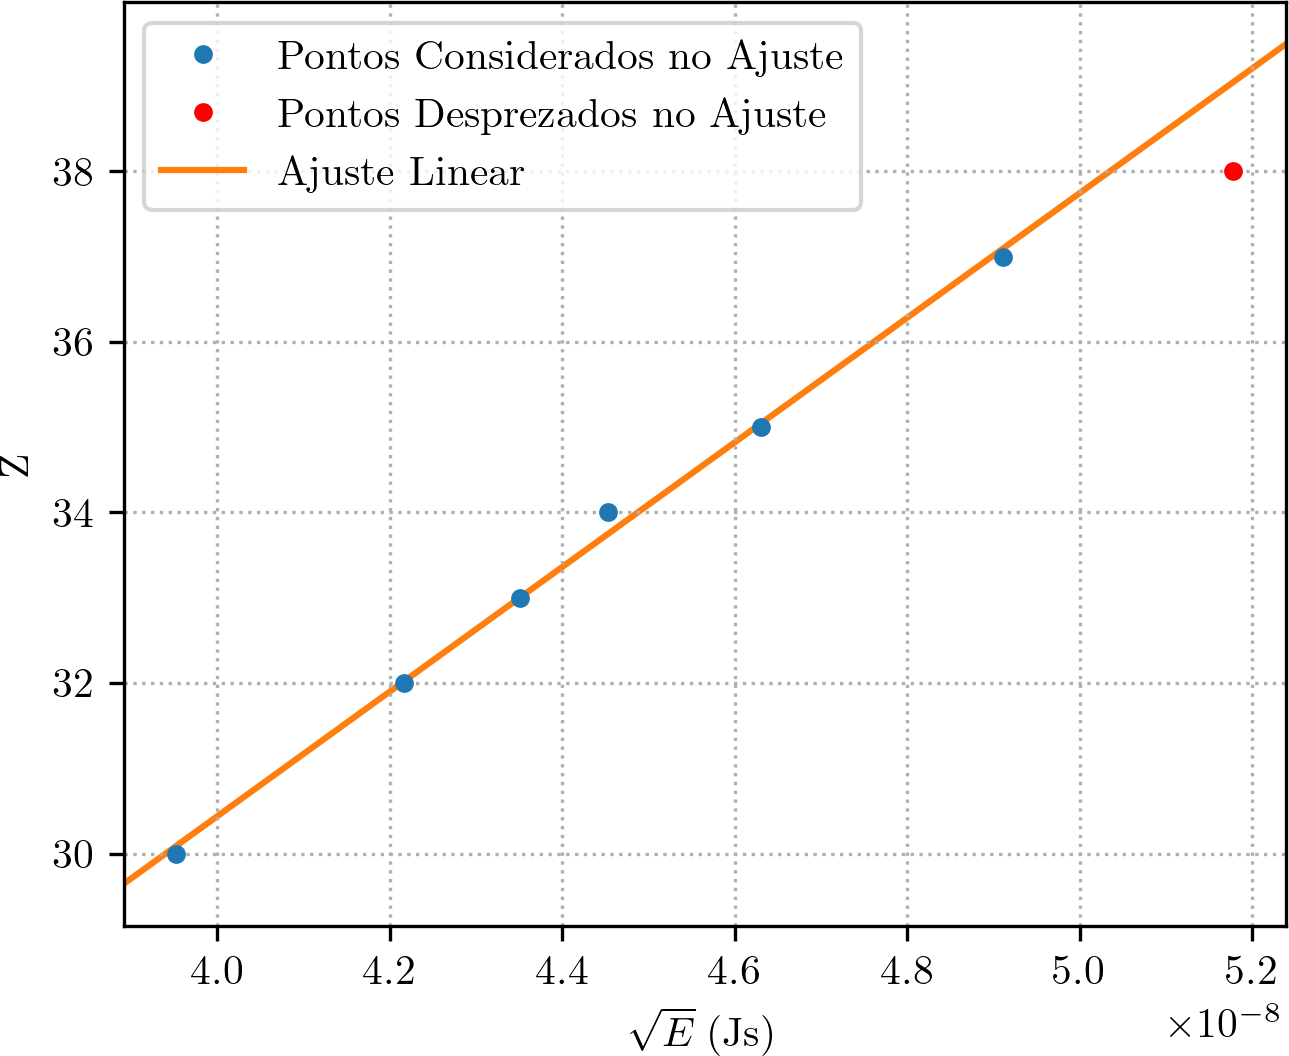
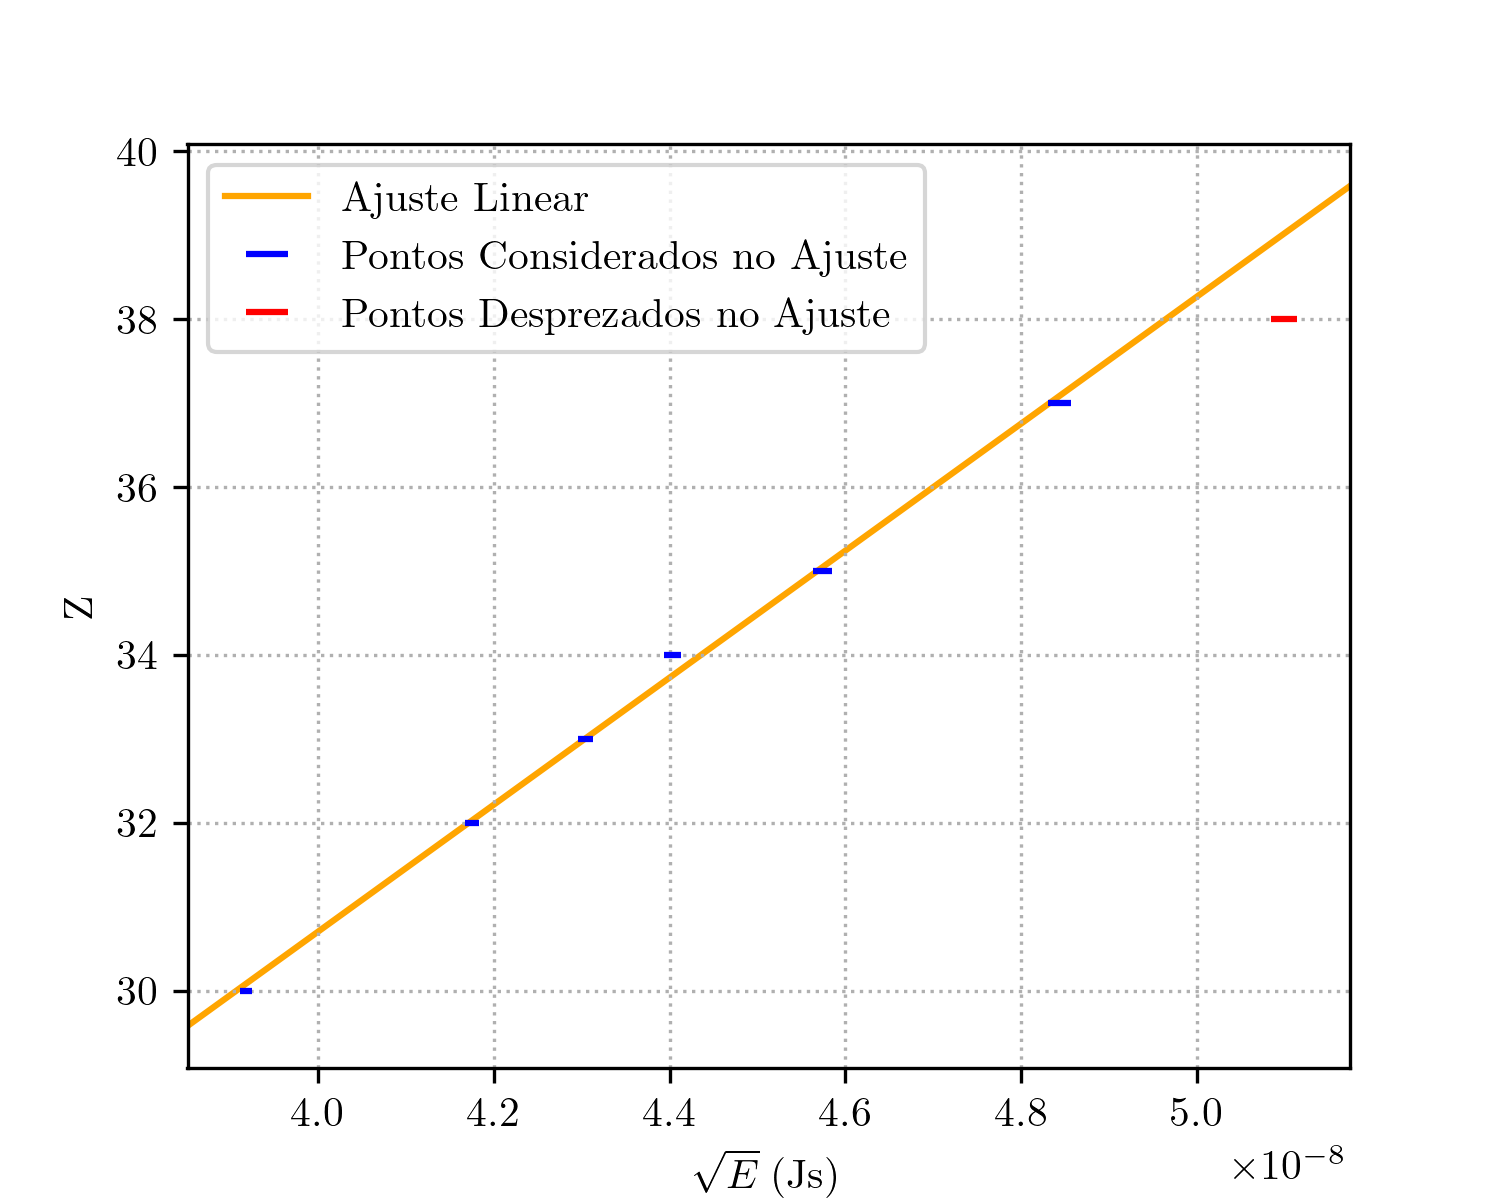
Adding correction to the angles and stderr of physical quantities

diff --git a/moseley.py b/moseley.py
@@ -57,13 +57,13 @@ for ax in axes[:, 0].flat:
 
 # Range of angles inside which is expected an absorption edge
 abs_range = {
-    "Zn": (17.5, 18.5),
-    "Ge": (15.5, 16.5),
-    "As": (14.5, 15.5),
-    "Se": (14.0, 15.0),
-    "Br": (13.0, 14.0),
-    "Rb": (11.5, 12.5),
-    "Sr": (10.0, 11.0),
+    "Zn": (17.8, 18.8),
+    "Ge": (15.8, 16.8),
+    "As": (14.8, 15.8),
+    "Se": (14.3, 15.3),
+    "Br": (13.3, 14.3),
+    "Rb": (11.8, 12.8),
+    "Sr": (10.3, 11.3),
 }
 
 
@@ -87,10 +87,15 @@ def color_gen(lenght):
 color = color_gen(len(elements))
 ylim = ymin, ymax = (-100, 3500)
 
+# Adding correction to the angles based on the result of angular.py
+correction_df = pd.read_csv("results/angular_result.csv", decimal=",")
+correction = correction_df.loc[1, "center"]
+angle_stderr = correction_df.loc[1, "center_stderr"]
+
 k_abs_edges = []
 
 for ax, df, element in zip(axes.flat, dfs, elements):
-    x_data = df.loc[:, "Angle"].to_numpy() / 2
+    x_data = df.loc[:, "Angle"].to_numpy() / 2 + correction
     y_data = df.loc[:, "Impulses"].to_numpy()
 
     x_data_filtered = gaussian_filter1d(x_data, sigma=1.0)
@@ -120,18 +125,32 @@ for ax, df, element in zip(axes.flat, dfs, elements):
         ymax,
         color="red",
         linewidth=0.5,
-        label=rf"$\theta = {k_abs_edge}\si{{\degree}}$",
+        label=rf"$\theta = {k_abs_edge:.1f}\si{{\degree}}$",
     )
 
     ax.set(ylim=ylim)
     ax.legend(loc="upper left")
 
 # Second plot: Moseley diagram (atomic number in terms of sqrt of energy)
-one_over_sin = 1 / np.sin(np.radians(np.array(k_abs_edges)))
+
+# Computing physical variables of interest
+k_abs_edges_stderr = np.full(len(k_abs_edges), angle_stderr)
+k_abs_edges_rad = np.radians(k_abs_edges)
+k_abs_edges_rad_stderr = np.radians(angle_stderr)
+one_over_sin = 1 / np.sin(k_abs_edges_rad)
+one_over_sin_stderr = (
+    np.radians(angle_stderr) * np.cos(k_abs_edges_rad) / np.sin(k_abs_edges_rad) ** 2
+)
+
 energies_js = 0.5 * PLANCK_JS * LIGHT_SPEED * one_over_sin / CRYSTAL
+energies_js_stderr = 0.5 * PLANCK_JS * LIGHT_SPEED * one_over_sin_stderr / CRYSTAL
 energies_kev = 5e-4 * PLANCK_EV * LIGHT_SPEED * one_over_sin / CRYSTAL
+energies_kev_stderr = 5e-4 * PLANCK_EV * LIGHT_SPEED * one_over_sin_stderr / CRYSTAL
 sqrt_energies_js = np.sqrt(energies_js)
+sqrt_energies_js_stderr = 0.5 * energies_js_stderr / np.sqrt(energies_js)
 sqrt_energies_kev = np.sqrt(energies_kev)
+sqrt_energies_kev_stderr = 0.5 * energies_kev_stderr / np.sqrt(energies_kev)
+
 zs = [atomic_number[element] for element in elements]
 
 # df with the data of the plot to export as a csv
@@ -140,19 +159,29 @@ result_df = pd.DataFrame(
         elements,
         zs,
         k_abs_edges,
+        k_abs_edges_stderr,
         energies_js,
-        sqrt_energies_js,
+        energies_js_stderr,
         energies_kev,
+        energies_kev_stderr,
+        sqrt_energies_js,
+        sqrt_energies_js_stderr,
         sqrt_energies_kev,
+        sqrt_energies_kev_stderr,
     ],
     index=(
         "element",
         "z",
-        "edge_angle",
-        "energy_js",
-        "sqrt(energy_js)",
-        "energy_ev",
-        "sqrt(energy_ev)",
+        "k_abs_edges",
+        "k_abs_edges_stderr",
+        "energies_js",
+        "energies_js_stderr",
+        "energies_kev",
+        "energies_kev_stderr",
+        "sqrt_energies_js",
+        "sqrt_energies_js_stderr",
+        "sqrt_energies_kev",
+        "sqrt_energies_kev_stderr",
     ),
 )
 
@@ -193,17 +222,31 @@ fig_moseley, ax_moseley = plt.subplots(figsize=(5, 4))
 
 ax_moseley.set(xlabel=r"$\sqrt{E} \; (\si{Js})$", ylabel="Z")
 
-ax_moseley.plot(
-    sqrt_energies_js[:-1], zs[:-1], "o", ms=3.5, label="Pontos Considerados no Ajuste"
+ax_moseley.errorbar(
+    sqrt_energies_js[:-1],
+    zs[:-1],
+    xerr=sqrt_energies_js_stderr[:-1],
+    fmt="none",
+    color="blue",
+    ms=3.5,
+    label="Pontos Considerados no Ajuste",
 )
-ax_moseley.plot(
-    sqrt_energies_js[-1], zs[-1], "ro", ms=3.5, label="Pontos Desprezados no Ajuste"
+ax_moseley.errorbar(
+    sqrt_energies_js[-1],
+    zs[-1],
+    xerr=sqrt_energies_js_stderr[-1],
+    fmt="none",
+    color="red",
+    ms=3.5,
+    label="Pontos Desprezados no Ajuste",
 )
 
 xlim = xmin, xmax = ax_moseley.get_xlim()
 x = np.linspace(xmin, xmax)
 
-ax_moseley.plot(x, slope * x + intercept, label="Ajuste Linear", zorder=-1)
+ax_moseley.plot(
+    x, slope * x + intercept, color="orange", label="Ajuste Linear", zorder=-1
+)
 
 ax_moseley.set(xlim=xlim)
 ax_moseley.legend()
